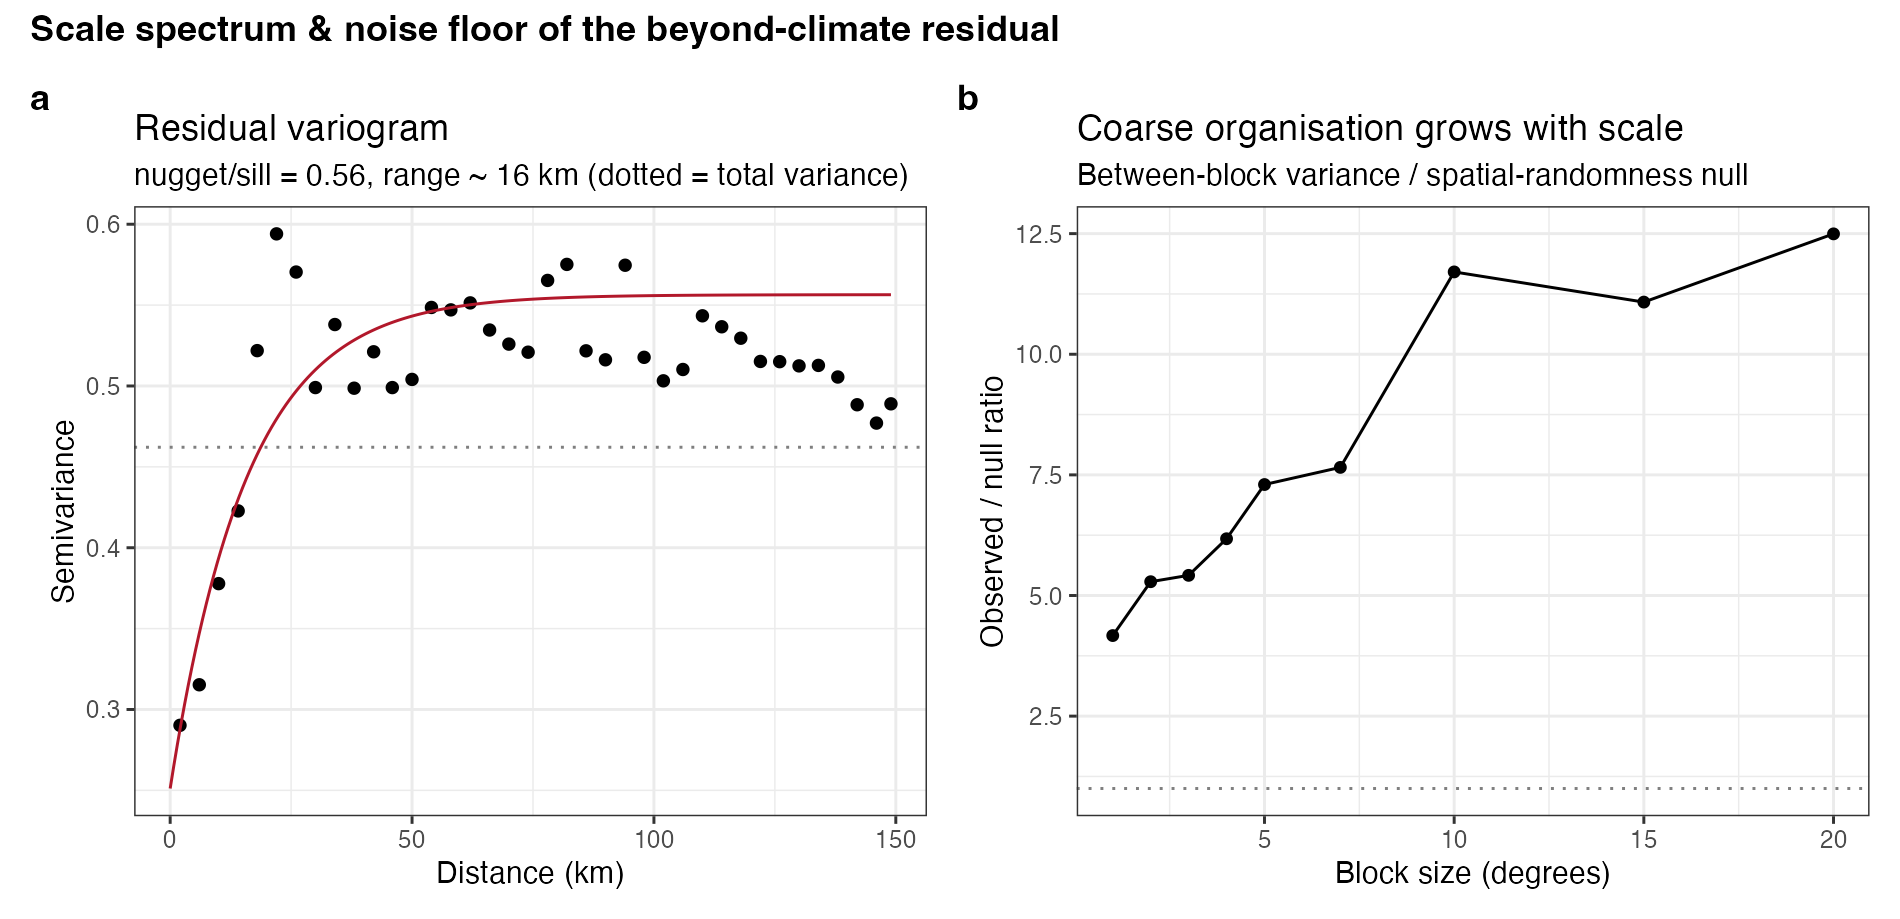
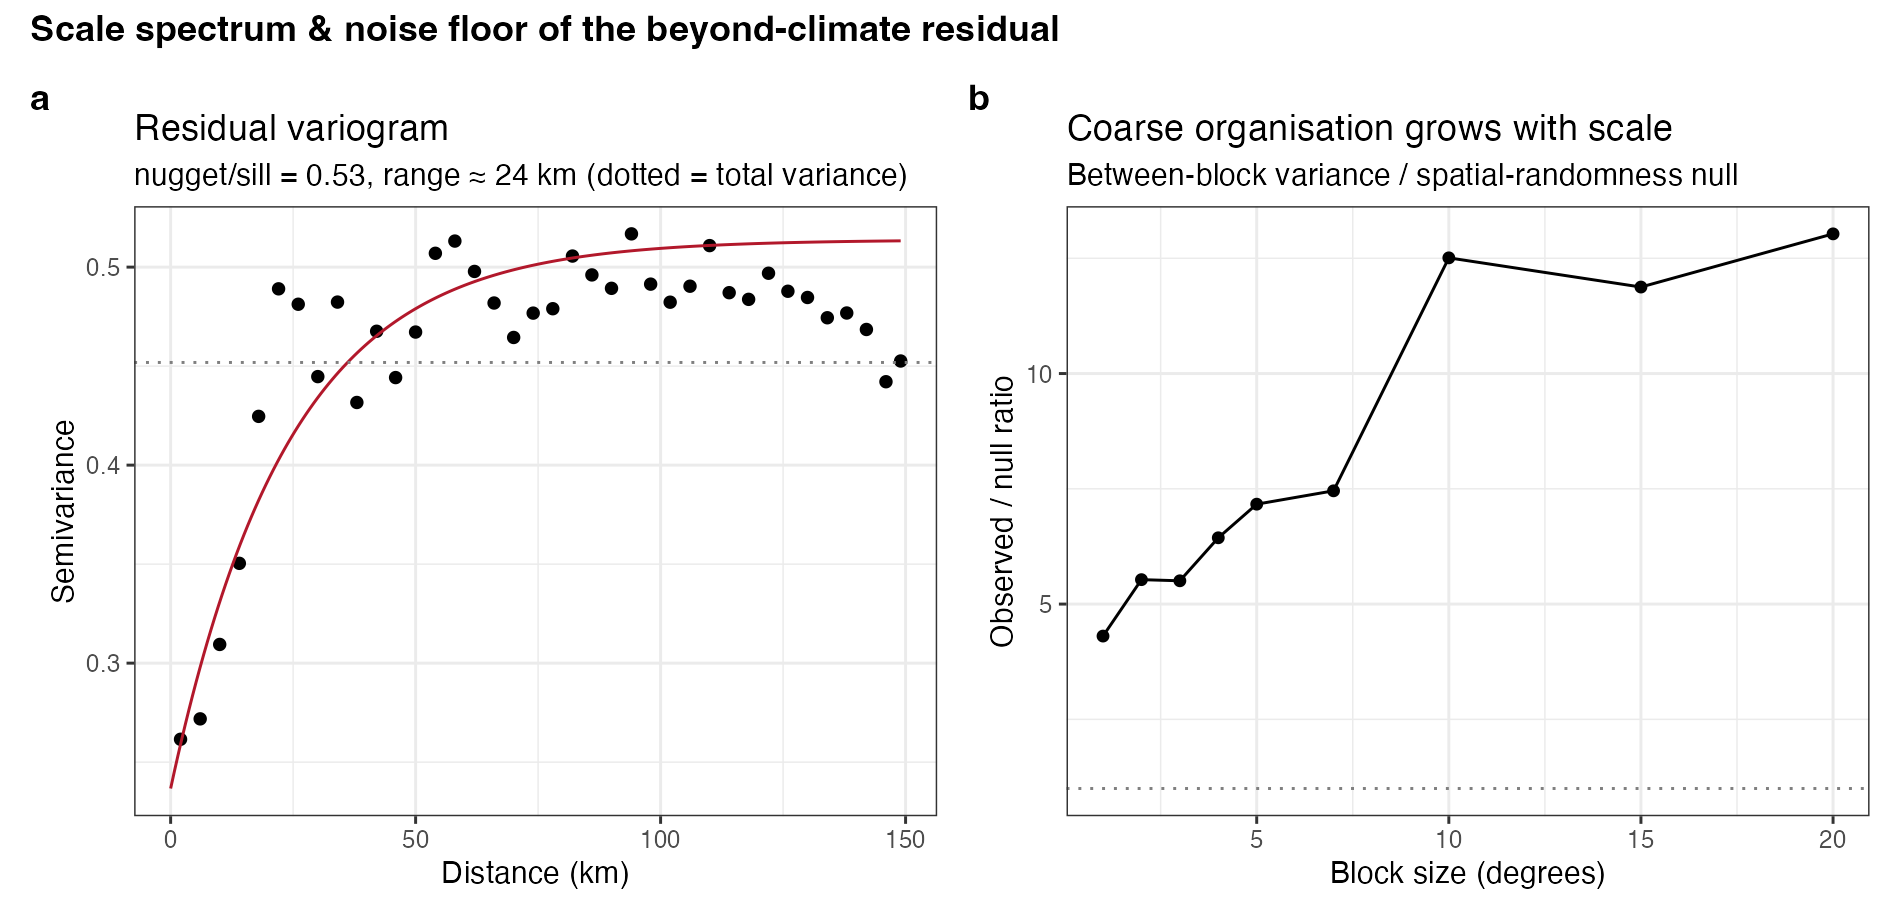
Verify every manuscript number against outputs; fix stale and wrong claims
Audit of all quantitative claims in the article, Methods, captions, Extended
Data and SI against the pipeline outputs. Most reproduce exactly (tau map,
n, R2, Shapley, Moran, block-size, ESM, latitude bands, profile counts,
Extended Data Table 2). Four groups did not.

1. 13f and 13i were never wired to the peat filter, so they still produced
   pre-exclusion numbers (their logs show climate-only R2 = 0.307 and
   n = 154,675). Both now source peat_filter.R as 13e/13g do, and were
   re-run. The conclusion is unchanged (map agreement roughly doubles from
   native to 1-2 deg, then plateaus, so 2 deg mapping still holds); the
   values move: nugget/sill 0.56 -> 0.53, correlation range 16 -> 24 km,
   mapping skill 0.11 -> 0.10 native and 0.22 -> 0.23 at 1-2 deg.

2. The provenance results had been refreshed on 2026-07-09 but the
   manuscript still carried the pre-exclusion values. Swept: eta2_source
   2.4 -> 2.5 % (four places), organisation 5.5/5.3, 7.3/6.5, 12.3/10.4,
   block-mean covariate R2 0.211/0.175, sources 44 -> 41 (common row set).
   The "eta2 = 0.067 for 5 deg spatial blocks" quoted in the SI was not
   produced by any script; 13g now computes it (eta2_spatial_blocks_5deg
   = 0.072) so the comparison traces to an output like every other number.

3. The ALE latitude-band sentence and the Extended Data Fig. 5 caption
   contradicted the cached ALE: temperature seasonality is largest in the
[…]

diff --git a/Global_MRT_code/manuscript/main_Nature.tex b/Global_MRT_code/manuscript/main_Nature.tex
@@ -268,12 +268,12 @@ Figs~\ref{edfig:moran}--\ref{edfig:residmap}): neighbouring regions carry simila
 beyond-climate residuals far more often than a random arrangement would produce, and
 this holds across all the major climate zones, not in one alone. That organisation
 appears only once the data are averaged over some distance. At the scale of
-individual profiles most of the variation is short-range: about 56\,\% of the
+individual profiles most of the variation is short-range: about 53\,\% of the
 residual variance is already present between the closest pairs of points, which is
 local variability rather than geographic pattern. Averaging over blocks removes much
 of it and leaves the organised part, and the agreement between the mapped and the
-observed residual roughly doubles from the native pixel ($R^2\approx0.11$) to
-$\approx0.22$ at blocks of 1--2\textdegree{} before plateauing, which is why we map
+observed residual roughly doubles from the native pixel ($R^2\approx0.10$) to
+$\approx0.23$ at blocks of 1--2\textdegree{} before plateauing, which is why we map
 at $2^{\circ}$ (Methods). At that resolution the modulation of $\tau$ by non-climate
 context (the log-ratio of the full-model to the climate-only prediction, one value
 per block) is itself zonally arranged (Fig.~\ref{fig:zonality},
@@ -292,7 +292,8 @@ Methods, Extended Data Fig.~\ref{edfig:latshapley}) turns the discrete zonation 
 a latitude-resolved profile of how the beyond-climate attribution changes from equator to
 pole. Edaphic context is the leading beyond-climate contributor at almost every
 latitude, close to half of the non-climate variance across the low and middle
-latitudes and highest in the subtropics. Soil biology strengthens at the two
+latitudes and highest in the southern extratropics and the equatorial belt. Soil
+biology strengthens at the two
 ecological extremes, rising in the humid equatorial belt and dominating the boreal,
 where it carries about two thirds of the non-climate variance at 50--60\textdegree N.
 Land use contributes throughout the low and middle latitudes but does not lead in any
@@ -311,7 +312,8 @@ resemblance follows from how they are defined: each is measured as a departure f
 the same climate-only prediction, so both carry the same climatic backbone. Removing
 that shared reference changes the picture. When biology is added on top of a model
 that already contains climate and edaphic properties, its contribution is spatially
-uncorrelated with the abiotic one ($r\approx0$ between the two maps; Methods), so
+uncorrelated with the abiotic one ($r=-0.06$ between the two maps at the native
+resolution and $-0.11$ at the $2^{\circ}$ mapping scale; Methods), so
 soil biology occupies its own spatial axis rather than restating the edaphic one. What that axis represents is
 not yet resolved: mycorrhizal richness and endemism lead the biological group
 (root-colonisation intensity adds negligible unique variance), which points to the
@@ -342,14 +344,22 @@ a mechanism: coarse (sandy) texture shortens turnover, as
 expected where organo-mineral stabilisation is weaker \citep{Hassink1997,Kleber2007,Rasmussen2018}; rising pH lengthens it to a peak near 7.5--8 \citep{Rousk2010,Malik2018}; snow cover lengthens it monotonically; and a higher fungal
 proportion shortens it \citep{StricklandRousk2010,Frey2019}. More informative than
 the individual functions is that several of them change with latitude rather than
-following a single global curve: the temperature-seasonality response is strongest
-in the boreal/Arctic zone and near-zero in the tropics, and the pH response is
-steepest in northern soils, whereas the biological responses are comparatively
-uniform across bands (Extended Data Fig.~\ref{edfig:ale_latband}). That latitude
-dependence is one of the clearest results of this analysis: turnover behaves as a
+following a single global curve (Extended Data Fig.~\ref{edfig:ale_latband}). The
+temperature-seasonality response is largest in the tropics (a range of about
+11~yr in $\tau$ across the band, against about 5~yr in the boreal/Arctic) and the pH
+response is steepest in the boreal/Arctic and flattest in northern temperate soils;
+the biological responses are consistently the smallest in magnitude, but they differ
+between bands as much as the climatic ones do. One qualification applies to the
+climatic curves in particular: latitude bands occupy largely different parts of
+climate space (the bands share only about a sixth of the temperature-seasonality
+range, and none of the snow-cover range), so part of their apparent
+biome-dependence is that each band samples a different portion of the driver. The
+edaphic and biological predictors overlap much more between bands, which makes the
+contrast there a genuine difference in response. Read with that qualification,
+turnover behaves as a
 collection of region-specific sensitivities rather than as a single climate-scaled
-law. The functions we recover indicate what biome-specific formulations might look
-like; they are not ready-made ones.
+law, and the functions we recover indicate what biome-specific formulations might
+look like; they are not ready-made ones.
 
 \paragraph{A gentler gradient than Earth System Models carry.}
 Because our estimate of $\tau$ rests on observations, and on a statistical model
@@ -385,7 +395,8 @@ chiefly through the carbon inputs it governs; conversion between forest, grassla
 and cropland changes stocks by tens of percent \citep{GuoGifford2002,Sanderman2017}.
 Its faint share in the present analysis is therefore a statement about scale, not
 about importance. It produces the largest per-pixel adjustments to
-$\tau$ (mean $\sim$7.6~yr) at cropland mosaics, deforestation fronts and burn scars, yet
+$\tau$ (mean $\sim$7.2~yr, against $\sim$4.6~yr for edaphic and $\sim$4.5~yr for
+biological context) at cropland mosaics, deforestation fronts and burn scars, yet
 adds almost no unique variance once edaphic and biological context are present
 (attributed share $\sim$10\,\%, unique $\approx0$), because those shifts are largely
 predictable from the soil and microbial signatures that accompany land-use change.
@@ -416,7 +427,7 @@ The beyond-climate signal is modest (about seven percentage points of variance),
 it belongs to the soils rather than to the way the data were assembled: the profiles
 come from several source databases, each with its own sampling and laboratory
 practice and its own geographic footprint, so an artefact of compilation would show
-up as variance between databases, and only 2.4\,\% of the residual variance does
+up as variance between databases, and only 2.5\,\% of the residual variance does
 (Methods). The signal is also interpretable, through the biome-dependent response
 functions described above. This has a direct consequence for Earth System Models,
 and one that does not require adding mechanistic complexity. Because each
@@ -542,7 +553,7 @@ Root-derived carbon is preferentially stabilised in persistent SOC
 \citep{Rasse2005,Jackson2017}, so the belowground input is a deliberate,
 conservative boundary; sensitivity to this choice is examined below. After excluding
 $\tau<1$ or $>1000$~yr and trimming the 1st/99th percentiles, 181{,}887 profiles
-remained ($\tau$ range 1.9--143.9~yr). Observations on peat in the Global Peatland
+remained ($\tau$ range 1.9--143.8~yr). Observations on peat in the Global Peatland
 Map 2.0 \citep{GreifswaldGPM2022} (both tiers; 6{,}922 profiles, 3.5\,\%) were
 excluded from the fit, and peat and open water were masked on all maps.
 
@@ -555,8 +566,8 @@ ESA WorldCover \citep{Zanaga2022}, Hansen forest change \citep{Hansen2013}, MODI
 burned area \citep{Giglio2018}, and mycorrhizal maps \citep{Yu2022,Barcelo2023,VanNuland2025}.
 Productivity variables were excluded by design to avoid circularity with the
 NPP-derived input. The biological group uses a six-layer set ($\geq96\,\%$ coverage);
-three root-colonisation layers that add negligible unique skill while halving
-coverage enter only a sensitivity check. All models were fitted with \texttt{ranger}
+three root-colonisation layers that add negligible unique skill while cutting
+coverage to ${\sim}62\,\%$ enter only a sensitivity check. All models were fitted with \texttt{ranger}
 \citep{Wright2017} on $\ln\tau$.
 
 \paragraph{Spatially-honest skill and attribution.}
@@ -564,7 +575,7 @@ Predictive skill is reported as spatial-block cross-validated $R^2$: the globe w
 partitioned into $2^{\circ}$ ($\sim$200~km) blocks assigned to ten folds, each
 fold predicted from a model trained on the others, so that a held-out region is not
 propped up by an almost-coincident training neighbour (the residual stays correlated
-only to $\approx16$~km). Enlarging the block to $1^{\circ}$ or $5^{\circ}$ lowers absolute
+only to $\approx24$~km). Enlarging the block to $1^{\circ}$ or $5^{\circ}$ lowers absolute
 skill but shifts each group's attributed share by at most 2 percentage points. To
 attribute the explained variance among the four correlated groups we use a Shapley
 decomposition: fitting all $2^4=16$ group subsets on a common row set and averaging
@@ -592,9 +603,9 @@ $\ln[\hat\tau_\text{context}/\hat\tau_\text{climate}]$, computed symmetrically f
 the abiotic and biological domains; the discrete zonation labels each block by its
 largest Shapley-weighted modulation, or "climate alone" below a small threshold. The
 mapping scale ($2^{\circ}$) was set by an out-of-sample skill curve (agreement of
-mapped with observed residual rising from $\approx0.11$ native to $\approx0.22$ and
+mapped with observed residual rising from $\approx0.10$ native to $\approx0.23$ and
 plateauing across 1--7\textdegree) and by the residual variogram (nugget/sill
-$\approx0.56$, range $\approx16$~km). Marginal responses use ALE \citep{Apley2020}
+$\approx0.53$, range $\approx24$~km). Marginal responses use ALE \citep{Apley2020}
 on the full model (40 quantile bins), computed globally and within four latitude
 bands.
 
@@ -603,7 +614,7 @@ We compared the normalised spatial structure of our $\tau$ against six CMIP6 mod
 \citep{Varney2022} with $\tau_\text{ESM}=\text{cSoil}/\text{rh}$
 \citep{Koven2017,Carvalhais2014} over 1980--2014, treating no product as truth and
 reporting magnitude-free dispersion and a polar-to-tropical ratio. Robustness checks
-(Supplementary Information) bound the main claims: a provenance control (only 2.4\,\%
+(Supplementary Information) bound the main claims: a provenance control (only 2.5\,\%
 of residual variance between source databases), biological parsimony, block-size
 invariance, and a carbon-input convention sweep. Because the input is set by a
 coefficient on one NPP field, a spatially uniform change only rescales $\tau$ and
@@ -713,8 +724,11 @@ export fraction $h$ is swept across its literature range.}
 \caption{\textbf{Marginal responses by latitude band.} ALE curves for $\tau$,
 computed globally and within four latitude bands (southern temperate, tropics,
 northern temperate, boreal/Arctic). These underlie the biome-dependence noted in the
-main text: the temperature-seasonality and pH responses steepen towards the poles
-while the biological responses stay comparatively uniform.}
+main text: the temperature-seasonality response is largest in the tropics, the pH
+response steepest in the boreal/Arctic, and the biological responses smallest in
+magnitude throughout. Bands cover different parts of each driver's range (curves are
+drawn only where a band has data), so the climatic curves in particular should be
+compared over the interval the bands share.}
 \label{edfig:ale_latband}
 \end{figure}
 

diff --git a/Global_MRT_code/manuscript/main_Nature_SI.tex b/Global_MRT_code/manuscript/main_Nature_SI.tex
@@ -176,7 +176,7 @@ $2^{\circ}$ ($\sim$200~km) blocks, assigning blocks to ten folds, and predicting
 fold from a model trained on the other nine. Holding out whole blocks prevents a site
 near a fold boundary from being predicted by an almost-coincident training neighbour, so
 the reported $R^2$ measures generalisation to unseen regions. The $2^{\circ}$ block is
-far wider than the residual's correlation range ($\approx16$~km;
+far wider than the residual's correlation range ($\approx24$~km;
 Sec.~\ref{sec:si_map}). The attribution is insensitive to block size: repeating the
 decomposition at $1^{\circ}$ and $5^{\circ}$ shifts each group's share by at most
 2 percentage points, leaving the ranking and the climate-versus-non-climate split
@@ -225,12 +225,12 @@ biological panels are shown separately. From the same fields we derive a discret
 zonation: at each $2^{\circ}$ block we weight each domain's log-ratio by its Shapley
 share and label the block by the largest, or as "climate alone" where none exceeds a
 small threshold. The noise floor is characterised by the residual variogram
-(nugget/sill $\approx0.56$, range $\approx16$~km); this range reflects the effective
+(nugget/sill $\approx0.53$, range $\approx24$~km); this range reflects the effective
 resolution of the gridded predictor stack (MODIS NPP, climate reanalysis, SoilGrids),
 which are smooth at hundreds of metres to kilometres, not intrinsic soil
 autocorrelation. The mapping scale is set by an out-of-sample skill curve: agreement
-between the mapped and observed residual rises from $\approx0.11$ at the native pixel to
-$\approx0.22$ at 1--2\textdegree{} and is flat across 1--7\textdegree{}
+between the mapped and observed residual rises from $\approx0.10$ at the native pixel to
+$\approx0.23$ at 1--2\textdegree{} and is flat across 1--7\textdegree{}
 (Fig.~\ref{sfig:mapskill}); a purely linear version declines with scale, so the
 meso-scale choice rests on the nonlinear, map-faithful metric. We map at $2^{\circ}$.
 
@@ -295,12 +295,14 @@ outputs are archived at \PH{[DOI]}.
 \section{Provenance control on the beyond-climate signal}
 \label{sec:si_provenance}
 % =============================================================================
-Because the soil compendium aggregates 44 geographically clustered source databases, a
+Because the soil compendium aggregates geographically clustered source databases (41 in
+the common row set used here), a
 source-specific measurement or laboratory offset could in principle masquerade as
 large-scale (zonal) structure. We tested whether the beyond-climate signal (the residual
 of the spatial-block cross-validated climate model) is carried by provenance rather than
-ecology. Only \textbf{2.4\,\%} of the residual variance lies between source databases
-($\eta^2_\text{source}=0.024$, versus $\eta^2=0.067$ for $5^{\circ}$ spatial blocks).
+ecology. Only \textbf{2.5\,\%} of the residual variance lies between source databases
+($\eta^2_\text{source}=0.025$, versus $\eta^2=0.072$ for the same residual grouped by
+$5^{\circ}$ spatial blocks).
 Removing each source's mean residual leaves the coarse-scale organisation essentially
 intact and the covariate skill on the block-mean residual barely changed
 (Table~\ref{stab:provenance}). Because source membership is itself confounded with
@@ -336,15 +338,15 @@ profiles used for training, by latitude.}
 \begin{figure}[H]\centering
 \includegraphics[width=0.95\textwidth]{../plots/appendix/scale_noisefloor.png}
 \caption{\textbf{Scale spectrum and noise floor.} (a)~Residual variogram (nugget/sill
-$\approx0.56$, range $\approx16$~km); (b)~coarse organisation grows with block size.}
+$\approx0.53$, range $\approx24$~km); (b)~coarse organisation grows with block size.}
 \label{sfig:noisefloor}
 \end{figure}
 
 \begin{figure}[H]\centering
 \includegraphics[width=0.85\textwidth]{../plots/appendix/scale_rf_mapping_skill.png}
 \caption{\textbf{RF mapping skill versus scale.} Agreement of the native beyond-climate
-map with the observed residual when aggregated to each block size: $R^2\approx0.11$
-native, $\approx0.22$ by 1--2\textdegree, plateau across 1--7\textdegree; the linear
+map with the observed residual when aggregated to each block size: $R^2\approx0.10$
+native, $\approx0.23$ by 1--2\textdegree, plateau across 1--7\textdegree; the linear
 proxy (grey) declines.}
 \label{sfig:mapskill}
 \end{figure}
@@ -390,11 +392,12 @@ article; absolute values are not compared across products.}
     \toprule
     Metric & Before & After source de-meaning \\
     \midrule
-    Between-source variance share ($\eta^2_\text{source}$) & \multicolumn{2}{c}{0.024 (2.4\,\%)} \\
-    Organisation @\,2\textdegree{} (obs/null)   & $5.3\times$  & $5.1\times$ \\
-    Organisation @\,5\textdegree{} (obs/null)   & $7.2\times$  & $6.4\times$ \\
-    Organisation @\,10\textdegree{} (obs/null)  & $11.6\times$ & $10.1\times$ \\
-    Block-mean covariate $R^2$ @\,5\textdegree{} & 0.188 & 0.152 \\
+    Between-source variance share ($\eta^2_\text{source}$) & 0.025 (2.5\,\%) & $<0.001$ \\
+    Variance share by $5^{\circ}$ spatial block ($\eta^2$) & 0.072 & 0.064 \\
+    Organisation @\,2\textdegree{} (obs/null)   & $5.5\times$  & $5.3\times$ \\
+    Organisation @\,5\textdegree{} (obs/null)   & $7.3\times$  & $6.5\times$ \\
+    Organisation @\,10\textdegree{} (obs/null)  & $12.3\times$ & $10.4\times$ \\
+    Block-mean covariate $R^2$ @\,5\textdegree{} & 0.211 & 0.175 \\
     \bottomrule
   \end{tabular}
 \end{table}
